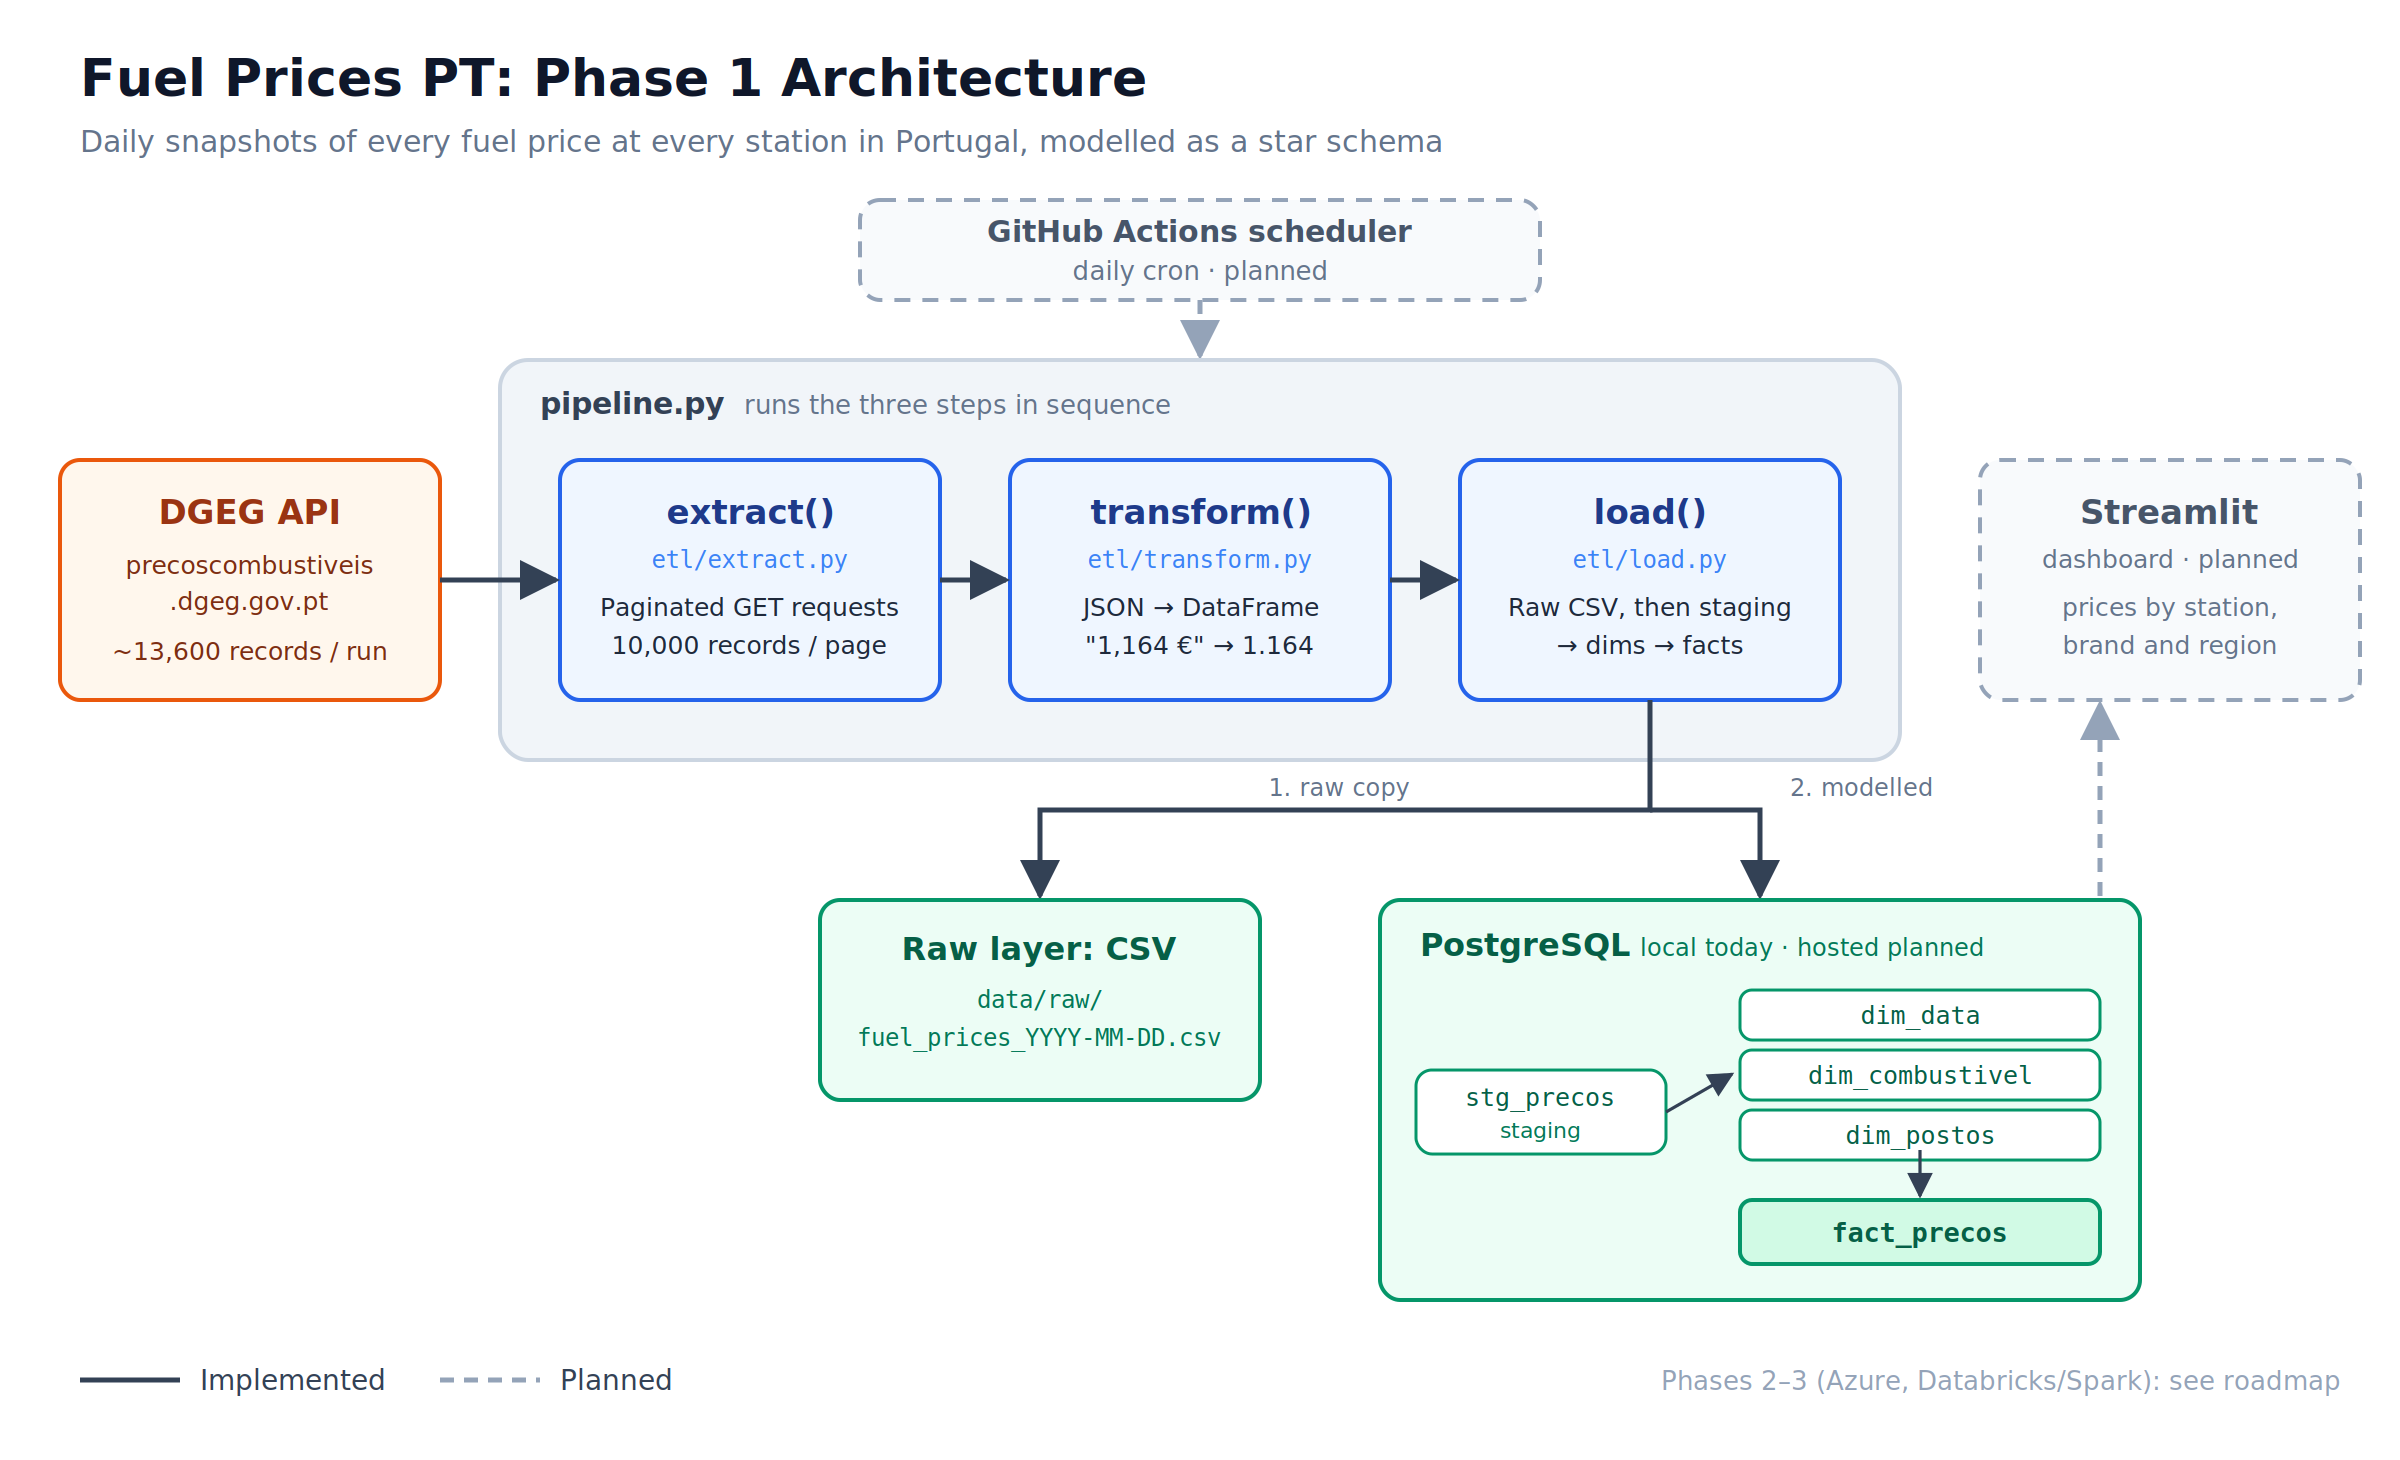
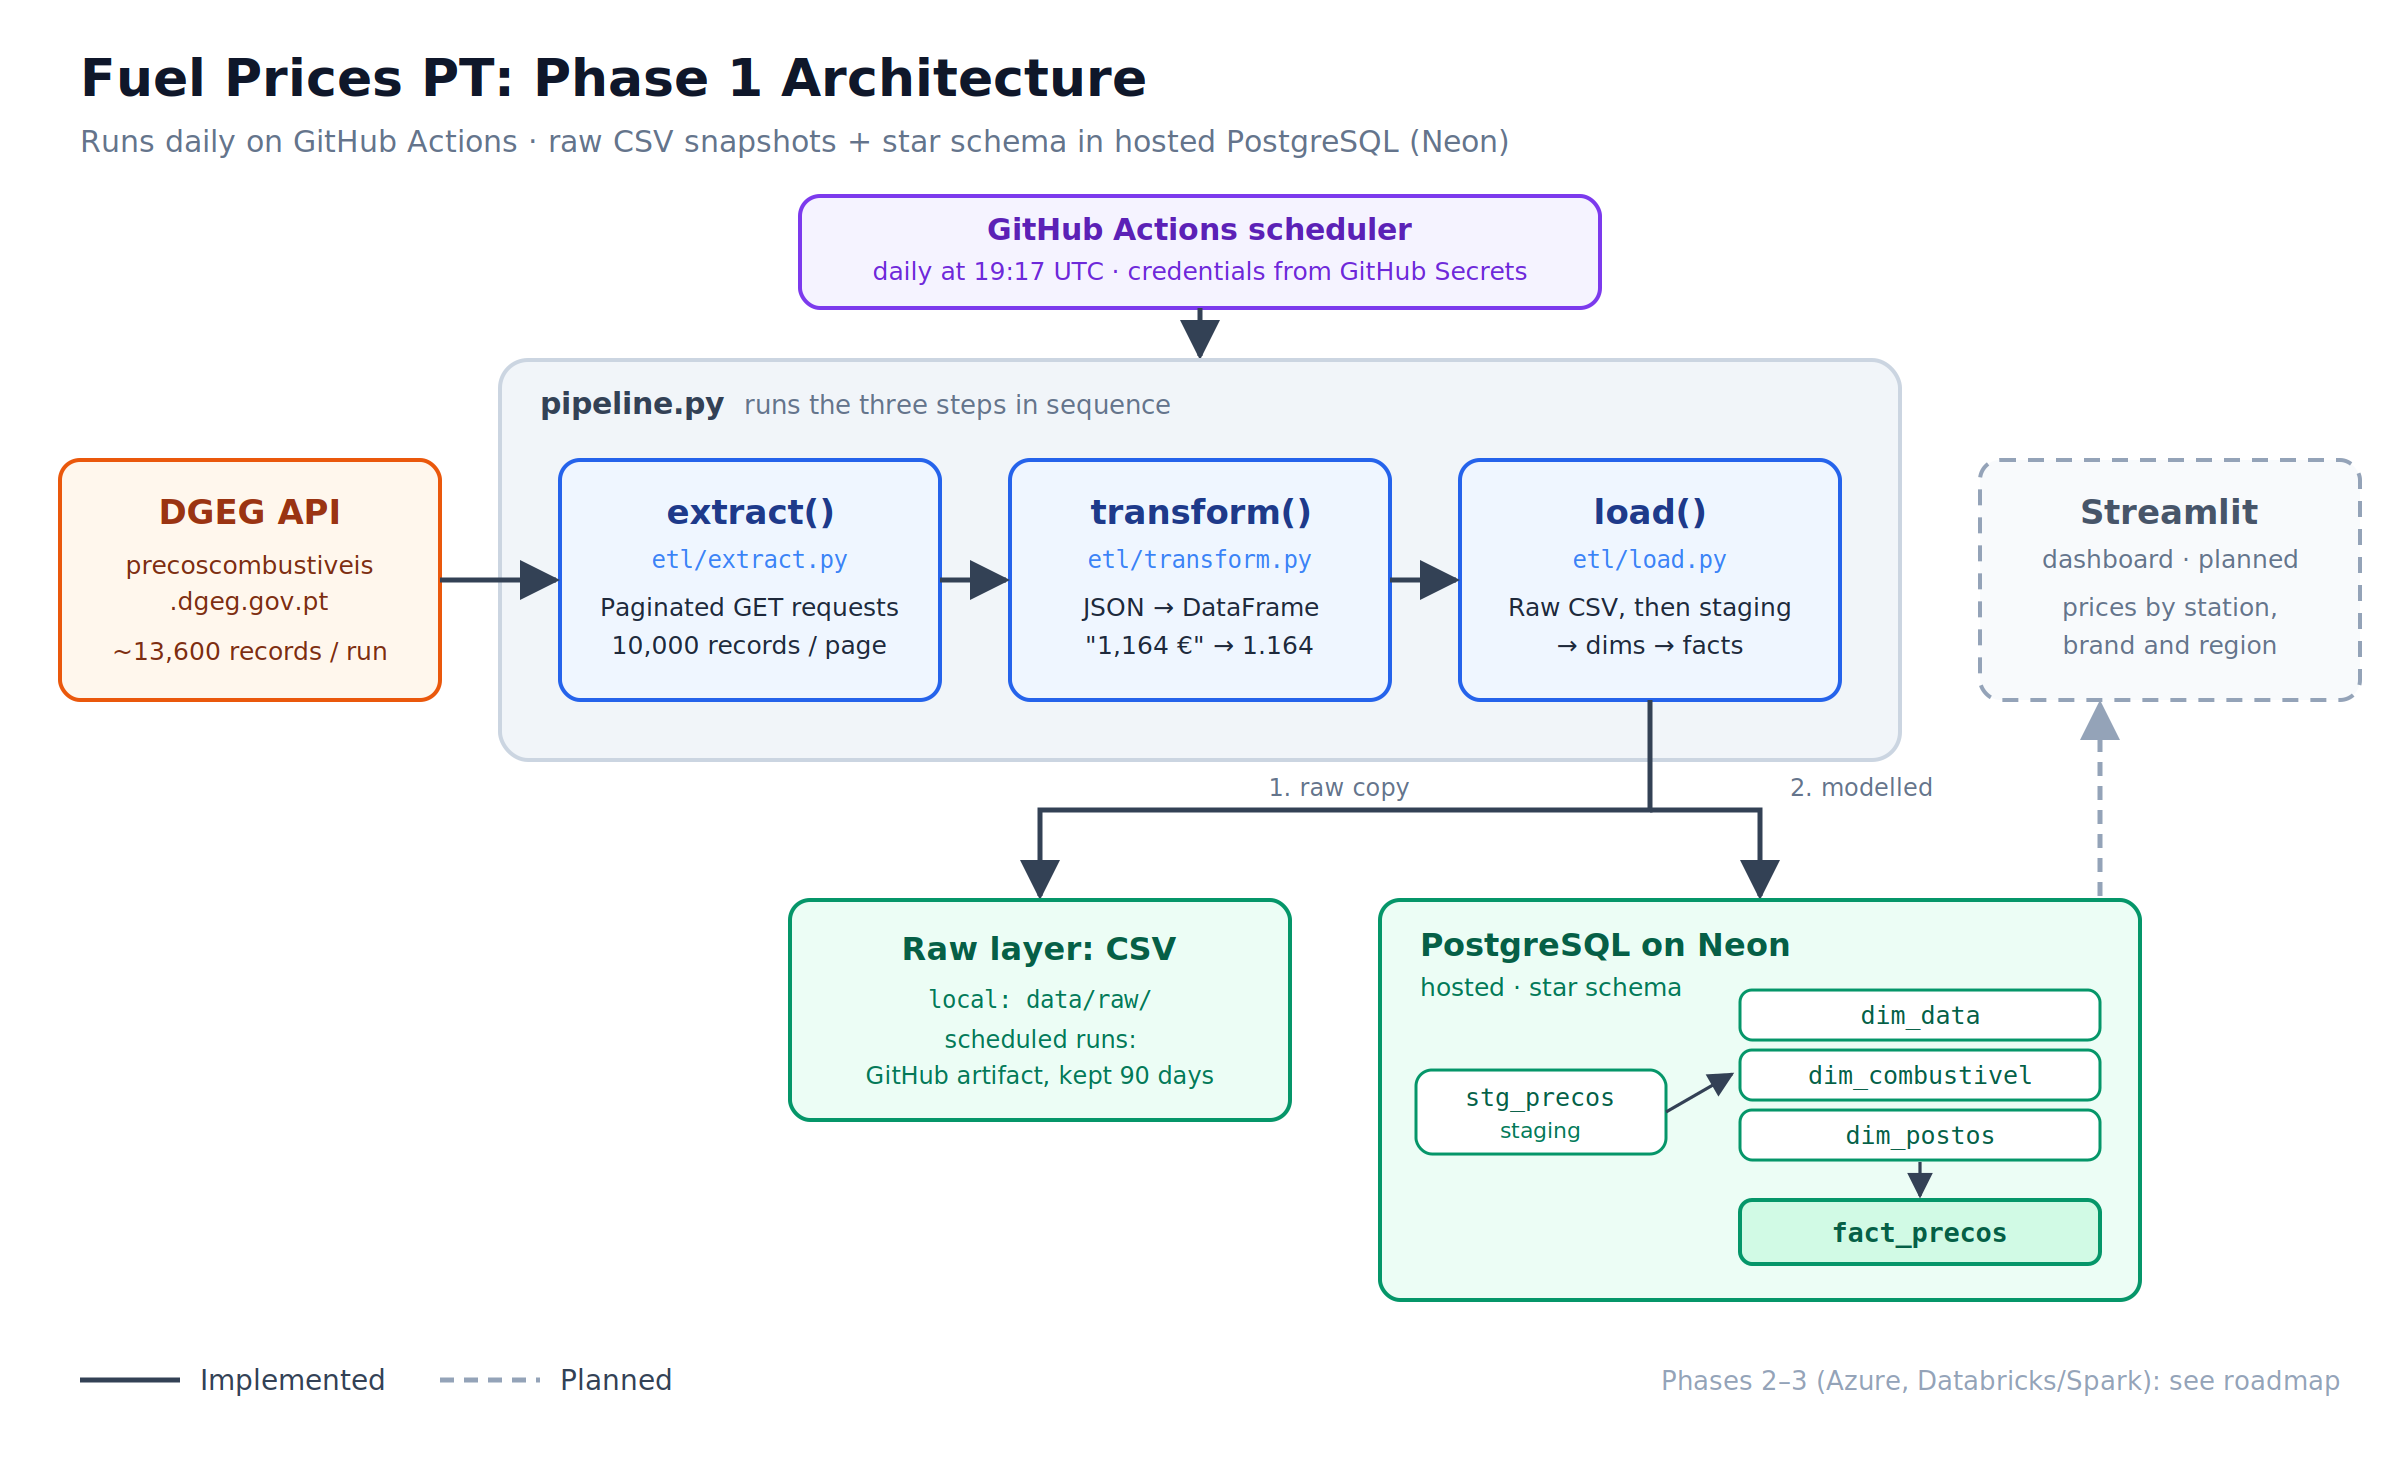
Document medallion layers, automation and encoding; update diagrams

Changed region(s): [[0.0312, 0.0925, 0.6562, 0.2466], [0.3125, 0.6164, 0.5312, 0.7705], [0.6562, 0.6164, 0.8125, 0.6781]]

diff --git a/README.md b/README.md
@@ -1,6 +1,6 @@
 # Fuel Prices PT
 
-A daily ETL pipeline that collects the price of every fuel at every petrol station in Portugal and models it as a star schema in PostgreSQL, building a price history that the official source does not keep.
+A daily ETL pipeline that collects the price of every fuel at every petrol station in Portugal and models it as a star schema in a hosted PostgreSQL database, building a price history that the official source does not keep. It runs automatically every day on GitHub Actions.
 
 ![Phase 1 architecture](docs/images/architecture.png)
 
@@ -39,11 +39,7 @@ The pipeline follows an **extract → transform → load** structure, with each 
 | Transform | [`etl/transform.py`](etl/transform.py) | Converts the JSON records into a pandas DataFrame and parses prices into numbers |
 | Load | [`etl/load.py`](etl/load.py) | Saves a dated raw CSV, then loads PostgreSQL through a staging table |
 | Orchestration | [`pipeline.py`](pipeline.py) | Runs the three steps in sequence |
-
-The load step writes to two layers:
-
-1. **Raw layer:** a dated CSV per run in `data/raw/`, exactly as transformed. If the database ever needs rebuilding, it can be reloaded from these files.
-2. **Modelled layer:** the day's rows are bulk-copied (`COPY`) into a staging table, then [`sql/load_from_staging.sql`](sql/load_from_staging.sql) moves them into the dimensions first and the fact table second.
+| Scheduling | [`.github/workflows/daily.yml`](.github/workflows/daily.yml) | Runs the pipeline every day on GitHub Actions |
 
 Example run:
 
@@ -60,6 +56,32 @@ Loaded PostgreSQL: 13627 price rows for 2026-10-04
 Pipeline finished.
 ```
 
+## Medallion architecture
+
+![Medallion architecture](docs/images/medallion.png)
+
+The data moves through three layers, following the **medallion** pattern. Each layer builds on the previous one, and the raw layer is never edited:
+
+| Layer | Purpose | Phase 1 (today) |
+|---|---|---|
+| **Bronze** | Faithful copy of the source, kept for reprocessing | A dated CSV per run: `data/raw/` locally, a GitHub Actions artifact in the cloud |
+| **Silver** | Cleaned, typed data in one consistent format | `stg_precos`: typed staging table in PostgreSQL, refilled on every run |
+| **Gold** | Business-ready model for analysis | The star schema in Neon: `fact_precos` and three dimensions |
+
+If the gold layer ever needs rebuilding, it can be reloaded from bronze with [`backfill.py`](backfill.py).
+
+Phase 1 is a lightweight version of the pattern: the bronze CSV already includes the parsed price column next to the original text, and the silver layer is a staging table rather than a stored history. Phase 2 makes the layers explicit in Azure, with untouched API responses in bronze and cleaned Delta Lake tables in silver.
+
+## Automation
+
+The pipeline runs every day on **GitHub Actions** ([`daily.yml`](.github/workflows/daily.yml)) and writes to a **hosted PostgreSQL database on [Neon](https://neon.com)**, so it runs without any local machine switched on.
+
+- **Schedule:** every day at 19:17 UTC, in the evening so most stations have published the day's prices. It can also be started manually from the Actions tab.
+- **Credentials:** the database connection comes from **GitHub Secrets**, exposed to the job as environment variables. No password is stored in the code or the repository.
+- **Raw snapshots:** GitHub's machines are wiped after each run, so the day's CSV is uploaded as a **workflow artifact**, kept for 90 days. The upload runs even if the database step fails, so the raw data is never lost to a load error.
+- **Correct dates:** the job runs with the `Europe/Lisbon` time zone, so each snapshot gets the Portuguese date.
+- **Safe reruns:** because loads are idempotent, a retried or manual run on the same day never duplicates data.
+
 ## Data model
 
 ![Star schema](docs/images/star_schema.png)
@@ -75,6 +97,8 @@ A **star schema** in PostgreSQL, defined in [`sql/schema.sql`](sql/schema.sql):
 
 `fact_precos` is a **periodic snapshot fact table**: every station's price is recorded every day, even when it hasn't changed, so "what was the price on day X?" is a simple lookup.
 
+The day's rows are bulk-copied (`COPY`) into the staging table, then [`sql/load_from_staging.sql`](sql/load_from_staging.sql) loads the dimensions first and the fact table second.
+
 ### Design decisions
 
 - **Idempotent loads.** The fact table's primary key is (day, station, fuel), and inserts use `ON CONFLICT DO NOTHING`. Rerunning the pipeline on the same day never creates duplicates.
@@ -83,7 +107,7 @@ A **star schema** in PostgreSQL, defined in [`sql/schema.sql`](sql/schema.sql):
 - **Two dates per price.** `data_key` is when the pipeline captured the price; `data_atualizacao` is when the station last changed it. An old `data_atualizacao` flags a possibly stale price.
 - **Exact prices.** Prices are `NUMERIC(6,3)`, not floating point, so values are stored exactly.
 - **Station changes overwrite (SCD Type 1).** `dim_postos` keeps the latest details of each station, plus `primeira_vez` / `ultima_vez`, the first and latest day it appeared. A station whose `ultima_vez` stops advancing has probably closed.
-- **Append-only raw layer.** Each run adds a new dated CSV and never edits old ones.
+- **Append-only bronze layer.** Each run adds a new dated CSV and never edits old ones.
 
 ### Example query
 
@@ -102,44 +126,25 @@ GROUP BY p.distrito
 ORDER BY preco_medio;
 ```
 
-Result for 4 October 2026 (prices in €/litre):
+### Text encoding
 
-| distrito | preco_medio | postos |
-|---|--:|--:|
-| Braga | 2.226 | 240 |
-| Aveiro | 2.227 | 232 |
-| Leiria | 2.230 | 211 |
-| Santarém | 2.231 | 205 |
-| Castelo Branco | 2.237 | 79 |
-| Viseu | 2.238 | 147 |
-| Porto | 2.240 | 408 |
-| Coimbra | 2.243 | 145 |
-| Guarda | 2.245 | 92 |
-| Viana do Castelo | 2.246 | 65 |
-| Setúbal | 2.248 | 175 |
-| Faro | 2.254 | 172 |
-| Portalegre | 2.254 | 46 |
-| Évora | 2.257 | 74 |
-| Beja | 2.258 | 78 |
-| Vila Real | 2.258 | 83 |
-| Lisboa | 2.260 | 343 |
-| Bragança | 2.262 | 72 |
+All files and tables use **UTF-8**, so Portuguese characters (`ç`, `ã`, `ó`...) are stored exactly as DGEG sends them. Excel on Windows doesn't assume UTF-8 when a CSV is double-clicked and may show `Ã§` instead of `ç`. The data is correct: open the file with **Data → From Text/CSV** and choose **65001: Unicode (UTF-8)** as the file origin.
 
 ## Roadmap
 
 ![Roadmap](docs/images/roadmap.png)
 
-**Phase 1: Local MVP** *(in progress)*
+**Phase 1: MVP** *(in progress)*
 - [x] Discover and document the DGEG API
 - [x] Modular ETL in Python (requests, pandas)
 - [x] Daily, dated CSV snapshots
 - [x] PostgreSQL star schema with idempotent loads
-- [ ] Hosted PostgreSQL + daily scheduling with GitHub Actions
+- [x] Hosted PostgreSQL (Neon) + daily scheduling with GitHub Actions
 - [ ] Streamlit dashboard
 
 **Phase 2: Cloud storage**
-- [ ] Raw layer in Azure Blob Storage / Data Lake
-- [ ] Bronze / silver / gold layers
+- [ ] Bronze layer in Azure Data Lake (untouched API responses)
+- [ ] Explicit bronze / silver / gold layers
 
 **Phase 3: Distributed processing**
 - [ ] Databricks + Spark transformations
@@ -150,10 +155,12 @@ Result for 4 October 2026 (prices in €/litre):
 ## Project structure
 
 ```
+├── .github/workflows/
+│   └── daily.yml               # daily schedule on GitHub Actions
 ├── etl/
 │   ├── extract.py              # API requests and pagination
 │   ├── transform.py            # cleaning and parsing
-│   └── load.py                 # raw CSV + PostgreSQL load
+│   └── load.py                 # bronze CSV + PostgreSQL load
 ├── sql/
 │   ├── schema.sql              # star schema: tables, keys, constraints
 │   └── load_from_staging.sql   # staging → dimensions → fact table
@@ -166,11 +173,11 @@ Result for 4 October 2026 (prices in €/litre):
 └── requirements.txt
 ```
 
-The `data/` folder is created when the pipeline runs and is excluded from version control, as is `.env`.
+The `data/` folder is created when the pipeline runs and is excluded from version control, as are all `.env` files except the template.
 
 ## How to run
 
-Requires Python 3.14 (the version it was built and tested with) and PostgreSQL (tested with 18).
+Requires Python 3.14 (the version it was built and tested with) and PostgreSQL (tested with 18 locally, and Neon).
 
 **1. Get the code and install dependencies**
 
@@ -189,12 +196,14 @@ pip install -r requirements.txt
 
 **2. Set up the database**
 
+Use a local PostgreSQL or a hosted one such as Neon. Create a database, then the tables:
+
 ```bash
-psql -U postgres -c "CREATE DATABASE fuel_prices ENCODING 'UTF8';"
-psql -U postgres -d fuel_prices -f sql/schema.sql
+psql -U postgres -c "CREATE DATABASE fuel_prices ENCODING 'UTF8';"   # local only
+psql "<your connection string>" -f sql/schema.sql
 ```
 
-Copy `.env.example` to `.env` and fill in your PostgreSQL password.
+Copy `.env.example` to `.env` and fill in your connection settings. For a hosted database, include `PGSSLMODE=require`.
 
 **3. Run**
 
@@ -205,10 +214,14 @@ python backfill.py    # optional: load any older CSVs from data/raw/
 
 Both are safe to rerun: rows that already exist are skipped.
 
+**4. Optional: schedule it on your own fork**
+
+Add four repository secrets under **Settings → Secrets and variables → Actions**: `PGHOST`, `PGUSER`, `PGPASSWORD` and `PGDATABASE`. The workflow in `.github/workflows/daily.yml` then runs every day, or on demand from the Actions tab.
+
 ## Tech stack
 
-**Now:** Python, requests, pandas, PostgreSQL, psycopg, SQL, Git/GitHub
-**Planned:** hosted PostgreSQL, GitHub Actions, Streamlit, Azure, Databricks, Spark, Delta Lake
+**Now:** Python, requests, pandas, PostgreSQL, psycopg, SQL, Neon, GitHub Actions, Git/GitHub
+**Planned:** Streamlit, Azure Data Lake, Databricks, Spark, Delta Lake, Power BI
 
 ## Author
 
